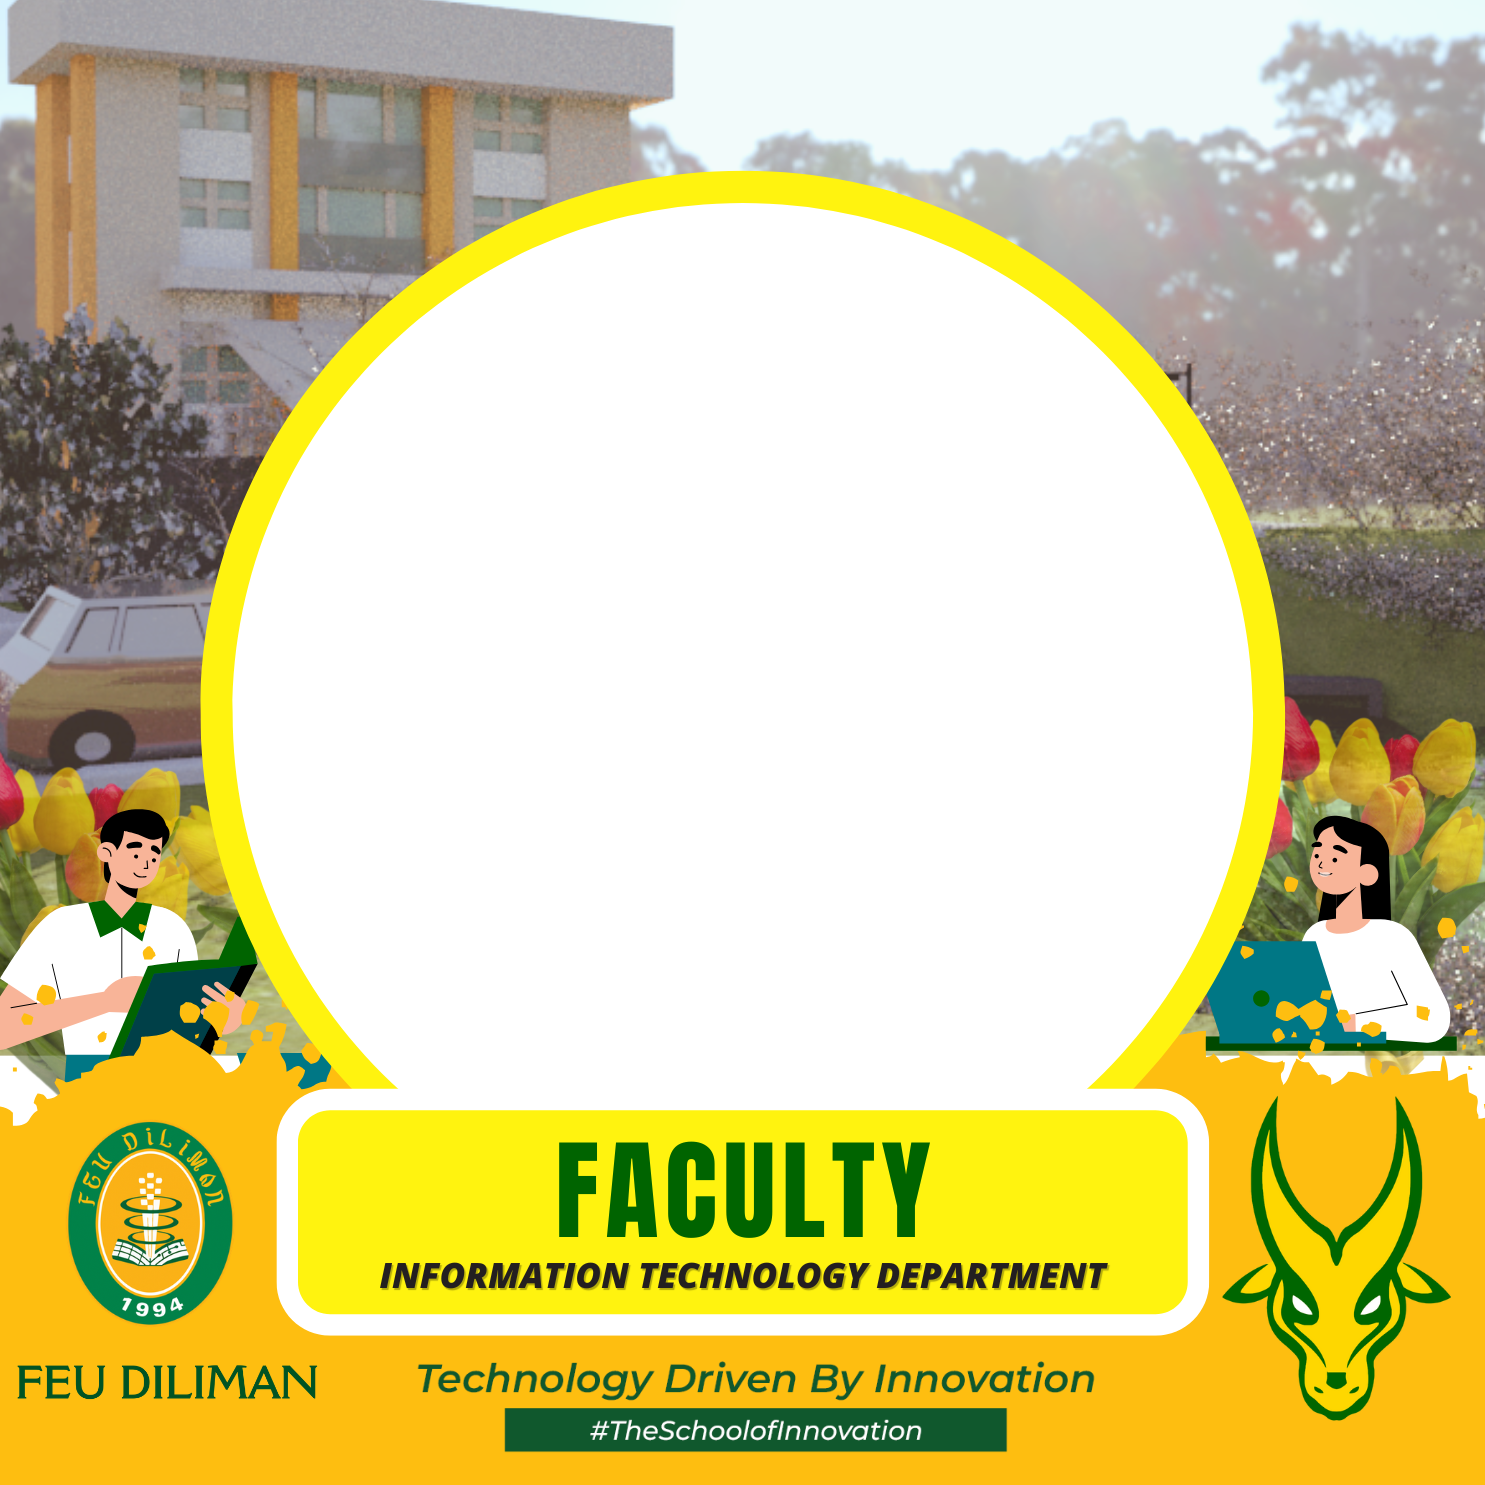
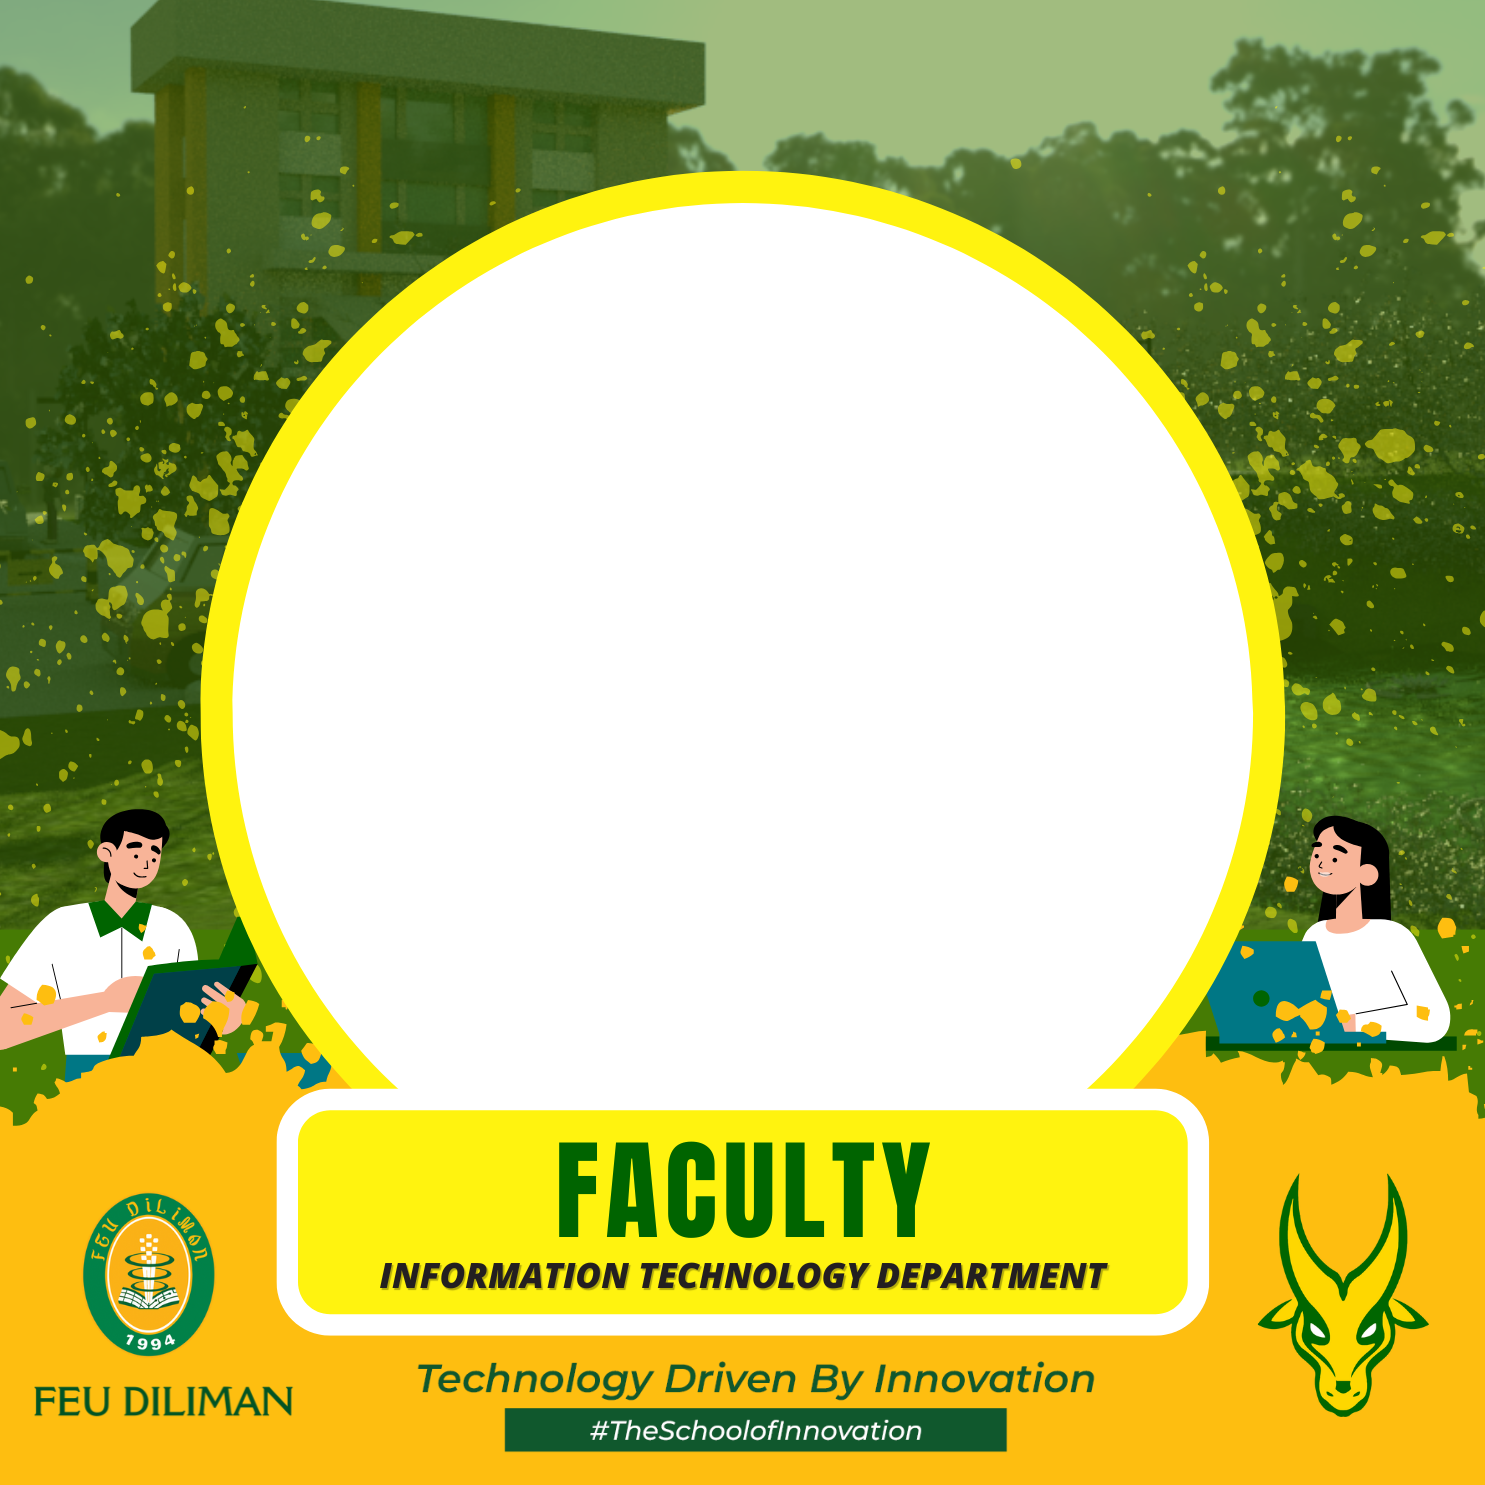
Consider padding and updated the frames

diff --git a/script.js b/script.js
@@ -70,23 +70,29 @@ uploadInput.addEventListener('change', (e) => {
 function drawPreview() {
     ctx.clearRect(0, 0, canvas.width, canvas.height);
 
+    const padding = 0.12; // 12%
+    const usableWidth = canvas.width * (1 - 2 * padding);
+    const usableHeight = canvas.height * (1 - 2 * padding);
+    const offsetXCanvas = canvas.width * padding;
+    const offsetYCanvas = canvas.height * padding;
+
     if (uploadedImage) {
         const imgRatio = uploadedImage.width / uploadedImage.height;
-        const canvasRatio = canvas.width / canvas.height;
+        const canvasRatio = usableWidth / usableHeight;
         let drawWidth, drawHeight, offsetX, offsetY;
 
         if (imgRatio > canvasRatio) {
             // Image is wider → fill height, crop sides
-            drawHeight = canvas.height;
+            drawHeight = usableHeight;
             drawWidth = imgRatio * drawHeight;
-            offsetX = (canvas.width - drawWidth) / 2;
-            offsetY = 0;
+            offsetX = offsetXCanvas + (usableWidth - drawWidth) / 2;
+            offsetY = offsetYCanvas;
         } else {
             // Image is taller → fill width, crop top/bottom
-            drawWidth = canvas.width;
+            drawWidth = usableWidth;
             drawHeight = drawWidth / imgRatio;
-            offsetX = 0;
-            offsetY = (canvas.height - drawHeight) / 2;
+            offsetX = offsetXCanvas;
+            offsetY = offsetYCanvas + (usableHeight - drawHeight) / 2;
         }
 
         ctx.drawImage(uploadedImage, offsetX, offsetY, drawWidth, drawHeight);
@@ -96,6 +102,7 @@ function drawPreview() {
         ctx.drawImage(frameImage, 0, 0, canvas.width, canvas.height);
     }
 }
+
 
 
 // Download image
@@ -164,4 +171,5 @@ document.addEventListener("DOMContentLoaded", () => {
     }
 });
 
-console.log("uploaded correctly.");
+
+

diff --git a/style.css b/style.css
@@ -6,7 +6,7 @@ body {
   font-family: Arial, sans-serif;
   margin: 0;
   padding: 20px;
-  background: #f4f4f4;
+  background: rgba(254, 190, 16, 0.3);
   min-height: 100vh;       /* Always fill the screen */
   display: flex;
   justify-content: center;
@@ -104,9 +104,4 @@ canvas {
 .cover-content p {
     margin: 0;
     padding: 0;
-}
-
-
-body {
-    background: linear-gradient(135deg, #a1c4fd, #c2e9fb);
 }
